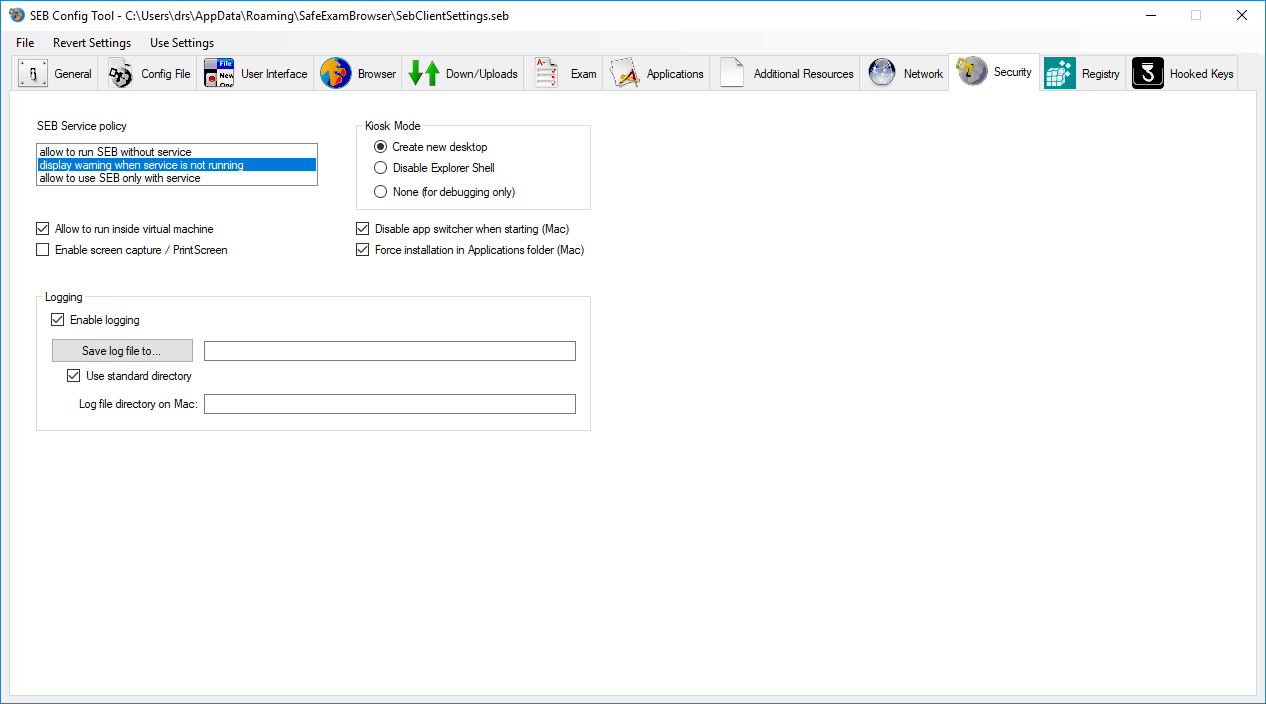
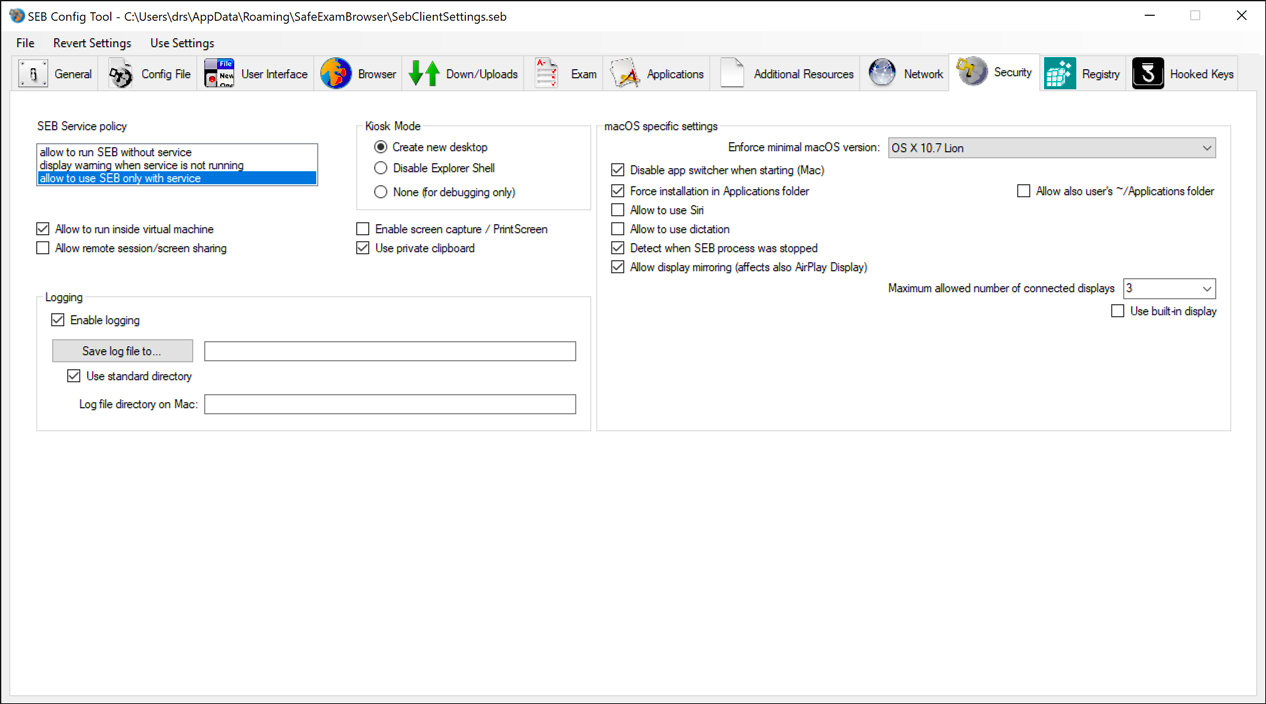
Updated manual for SEB 2.3 for Windows.

diff --git a/windows/win_usermanual_en.html b/windows/win_usermanual_en.html
@@ -292,7 +292,7 @@
 
           <h2 class="page-header sebnavbar-link" id="introduction">
             <a class="anchorjs-link" href="#introduction"></a>
-            Safe Exam Browser 2.2.2 for Windows
+            Safe Exam Browser 2.3 for Windows
           </h2>
     
           <p>Safe Exam Browser – SEB for Windows opens a web browser window without navigation elements and locks the computer into a kiosk mode, which prevents from switching to other applications or quitting SEB untimely. <span class="half_linespace">SEB enables secure exams on unmanaged computers like students' own laptops as well as in managed environments</span>. Currently SEB integrates with the wide spread learning management systems (LMS) Moodle,  ILIAS and OpenOLAT and several commercial and non-commercial exam systems, as for example Inspera Assessment. Generally it can easily be used with most  web-based online quiz and e-assessment systems.          </p>
@@ -322,31 +322,7 @@
         
         <p> SEB for Windows can be used together with additional (third party) applications during an exam. You can download and open files linked in your online exam, edit it in a third party application and then upload the results to your online quiz/LMS again. </p>
         <p>From version 2.0 SEB uses encrypted <span class="quote">.seb</span> setting files which allow to individually configure SEB per exam. Also see the  <a href="../presentations/HowTo_SEB2.0.pdf" target="_blank">how to use SEB 2.0 document</a> explaining the concept behind SEB 2.x.</p>
-        <p><strong><span class="red">Please understand that you also have to configure your exam system correctly to be locked down securely.</span></strong> SEB is generally  locking down exam client computers only, not the exam system or the quiz module of a learning management system. <strong>Check documentation for your exam/learning management system on how to lock it down correctly.</strong> </p>
-        <h4>New in SEB 2.2.2</h4>
-        <p>SEB 2.2 for Windows is a major update with new features and many improvements. Safe Exam Browser 2.2.2 for Windows is a maintenance update for SEB 2.2 with two bug fixes for SEB 2.2.1. This version is replacing the SEB 2.1.x branch, with which it is <span class="red">compatible with one important exception</span>: <strong>If you defined URL filter rules in SEB 2.1.x for Windows, then you'll have to re-enter those in the 2.2.2 SEB Config Tool, following the new filter rule scheme.</strong> URL filter rules created and saved with SEB for macOS are already compatible with SEB 2.2.2 for Windows.</p>
-        <ul>
-          <li>Using the powerful new feature <a href="#AdditionalResources">Additional Resources</a>, specific webpages, full or partial websites and documents can be accessed securely and easily in exams.</li>
-          <li>Additional Resources can be opened using icons in the SEB taskbar (similar to permitted applications) or with hierarchical popup menus.</li>
-          <li>External Additional Resources use the improved URL filter to only allow displaying specific webpages, documents or sections of websites.</li>
-          <li>Additional Resources can be embedded into SEB configuration files. An exam administrator can add documents like PDF files and HTML documents.</li>
-          <li>Even full HTML5 web apps can be added as embedded Additional Resources, so they can be used in a fully offline exam scenario.</li>
-          <li>You could deploy SEB Config Files containing an  HTML5/JavaScript exam player onto mobile devices and then perform an offline e-assessment.</li>
-          <li>Improved URL filter which allows to use simple filter rules to effectively allow specific web pages/sites/content and block all others.</li>
-          <li>Improved, refactored browser engine based on Firefox 52 ESR. This is the last Firefox version compatible with the XUL browser engine application used in SEB. We are already working on the next generation of SEB for Windows, which will be using a Chromium based browser engine (but this SEB 3.x branch won't replace the current Firefox-based SEB before 2019).</li>
-          <li>Improved blocking of third party applications and tools for screen sharing and screen recording.</li>
-          <li>Now preventing SEB being run in a remote session (using Remote Desktop Connection or similar on an exam client).</li>
-          <li>Improved stability when setting and resetting Windows Registry settings to disable options like Task Manager, Switch User, Sign out and Shut down (accessible with the Ctrl+Alt+Del shortcut) during the exam and re-enabling them when quitting SEB.</li>
-          <li>Integrated secure viewer for PDF files.</li>
-          <li>Added Audio Control Component to SEB taskbar, which allows to increase/decrease and mute system audio volume. Audio can be muted or the audio level preset when starting SEB.</li>
-          <li>SEB Config Files can now be loaded from servers using authentication (Basic, OAuth etc.) using seb(s):// links. Even indirect links (not containing the  file name with the .seb extension, like for example sebs://example.com/download.php?id=2352) are possible. This allows to store a SEB exam settings file for example into the same Moodle course as the quiz. The login session is remembered, therefore students don't have to login twice in SEB if you start SEB/an exam using a seb(s):// link to a config file on an authenticated server. Note: Starting SEB by opening a seb(s):// linked config file from an authenticated server isn't supported in SEB for Windows 2.2.2 yet, such indirect seb(s) links can only be opened from inside SEB (for example from an exam portal/landing page).</li>
-          <li>Added a page loading (network activity) indicator.</li>
-          <li>Added a browser window toolbar, similar to SEB for macOS, with reload and back/forward buttons.</li>
-          <li>Navigation in browser history (back/forward) can now be allowed/disabled separately for the exam and additional browser windows.</li>
-          <li>The browser user agent string now reflects the operating system SEB is running on and allows a custom suffix string to be added.</li>
-          <li>Added new asymmetric/symmetric encryption for config files using identity certificate for better performance when decrypting certificate encrypted config files.</li>
-          <li>Fixed on-screen keyboard wasn't displayed in latest versions of Windows 10. Now "Tablet Mode" needs to be activated in the system when using SEB in its "Touch optimized" mode.        </li>
-        </ul>
+        <p><strong><span class="red">Please understand that you also have to configure your exam system correctly to be locked down securely.</span></strong> SEB is generally  locking down exam client computers only, not the exam system or the quiz module of a learning management system. <strong>Check documentation for your exam/learning management system on how to lock it down correctly.</strong></p>
         </div>
         <!-- / Document Section --> 
     
@@ -664,11 +640,11 @@
           <img class="img-responsive" src="images/SEB_Preferences_05_DownUploads.png" />
                   
           <ul id="seblist">
-            <li><span class="quote">Allow downloading and uploading files</span> (Mac only): Usually to be used with permitted third party applications for which you want to provide files to be downloaded.</li>
+            <li><span class="quote">Allow downloading and uploading files</span>: Usually to be used with permitted third party applications for which you want to provide files to be downloaded. <strong>Starting SEB 2.3, this option  also works on Windows.</strong> Uploading can only be blocked by SEB when the website is using standard form elements (this is a restriction of the used Firefox browser engine).</li>
           </ul>
           <ul id="seblist">
             <li><span class="quote">Save downloaded files to</span>: Choose the download directory with this button, which displays a file/directory chooser dialog. In the  path displayed afterwards righthand of the button, SEB automatically replaces sections with a Windows environment variable, so paths are portable to other computers, for instance with another user account name (if you for example select your <span class="path">Documents</span> folder, the path becomes <span class="path">%USERPROFILE%\Documents</span>). An empty path means SEB uses the <span class="path">Download</span> folder.</li>
-            <li><span class="quote">Open files after downloading</span> (Mac only): Downloaded files will be opened with the according application, which has to be set correctly in the system for each used file type.</li>
+            <li><span class="quote">Open files after downloading</span>: Downloaded files will be opened with the according application, which has to be set correctly in the system for each used file type.<strong> In SEB for Windows starting version 2.3, when this setting is disabled, then the dialog "Open File With... Safe Exam Browser" isn't  displayed</strong> (files are directly saved to the configured download directory).</li>
             <li><span class="quote">Choose file to upload…</span>  (Mac only): SEB can let the user choose the file to upload manually (as usual) or automatically choose the same file which was downloaded before. There are three possible policies to choose the file to upload:</li>
                 <ul id="seblist">
             <li class="quote">manually with file requester</li>
@@ -988,6 +964,8 @@
               </ul>
             <li><span class="quote">Allow SEB to run inside virtual machine</span>: Indicates if SEB is allowed to run in a virtual machine (e.g. for exams in virtual desktop environments) or not (in order to prevent potential manipulation).</li>
             <li><span class="quote">Enable screen capture / PrintScreen</span>: Controls PrintScreen and macOS screen capture (invoked with cmd-3 and cmd-4), this setting corresponds with Enable PrintScreen in the <a href="win_usermanual_en.html#HookedKeysPane">Hooked Keys</a> pane. If users have the DropBox client installed and activated to upload screen shots directly to their DropBox, then this will also be stopped when PrintScreen is disabled.</li>
+            <li><span class="quote">Allow remote session/screen sharing</span>: Allows Windows remote sessions and macOS screen sharing to be used.</li>
+            <li><span class="quote">Use private clipboard</span>: When enabled, cut/copy/paste works only with content inside the SEB browser, the private clipboard doesn't accept content from other applications or tools. This prevents utilities running in the background and cloud clipboard features to be used to copy-paste contents into or out of exams. Private clipboard should always be used besides when working with third party applications in a managed user account.</li>
             <li>
               <p><span class="quote">Enable logging</span>: The log can help in debugging SEB (if you send it to the developers) and to find out about possible manipulations. There are three log files:</p>
 

diff --git a/windows/win_release_notes_en.html b/windows/win_release_notes_en.html
@@ -235,7 +235,7 @@
     <ul>
       <li>Implemented private clipboard (optional, see Security tab). When enabled, cut/copy/paste works only with content inside the SEB browser, the private clipboard doesn't accept content from other applications or tools.</li>
       <li>Added zooming of browser windows using the Ctrl +/- shortcuts.</li>
-      <li>Now the option &quot;Allow downloading and uploading files&quot; is supported in SEB for Windows, at least downloads can be enabled/disabled with this option (Down-/Uploads tab).<br>
+      <li>Now the option &quot;Allow downloading and uploading files&quot; is supported in SEB for Windows, downloading and uploading  (only when the website is using standard form elements) files can be disabled with this option (Down-/Uploads tab).<br>
       </li>
       <li>The dialog &quot;Open File With... Safe Exam Browser&quot; is no longer displayed unless the option &quot;Open files after downloading&quot; is enabled (Down-/Uploads tab).<br>
       </li>

diff --git a/news_en.html b/news_en.html
@@ -238,7 +238,7 @@
           <ul>
             <li>Implemented private clipboard (optional, see Security tab). When enabled, cut/copy/paste works only with content inside the SEB browser, the private clipboard doesn't accept content from other applications or tools.</li>
             <li>Added zooming of browser windows using the Ctrl +/- shortcuts.</li>
-            <li>Now downloads can be enabled/disabled with the option &quot;Allow downloading and uploading files&quot;.</li>
+            <li>Downloading and uploading files in the browser can now be disabled.</li>
             <li>Enabled SpeechSynthesis API.</li>
             <li> Fixed issue when opening a PDF with a link to be opened in a new browser window (target = _blank or JavaScript open), a second, empty browser window was opened.</li>
             <li> Deactivated printing in the built-in PDF.js viewer, as that opened a security hole.</li>
